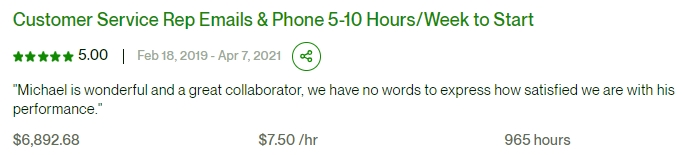
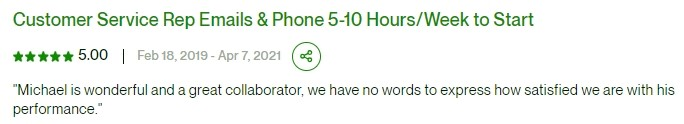
Cropped images and resized in style.css

diff --git a/index.html b/index.html
@@ -9,9 +9,7 @@
 </head>
 <body>
     <header>
-        <div class="picture-container">
-            <img src="images/profile-pic.jpg" alt="close up head shot">
-        </div>
+        <img src="images/profile-pic.jpg" alt="close up head shot" class="picture-container">
         <div class="heading">
             <h2>Virtual Assistant | Online Freelancer | Front End Web Developer</h2>
             <div class="opening">

diff --git a/css/style.css b/css/style.css
@@ -13,7 +13,7 @@ header {
     flex-wrap: wrap;
 }
 
-img {
+.picture-container {
     width: 250px;
     max-width: 100%;
     max-height:100%;
@@ -47,7 +47,7 @@ img {
 .upwork-review-1 {
     display: flex;
     flex-direction: row;
-    width: 600px;
+    width: 400px;
     margin: 20px auto;
 }
 

diff --git a/README.md b/README.md
@@ -9,3 +9,4 @@ November 22, 2023
 #5 Social media favicons added to images folder
 #6 Added additional CSS for mobile responsiveness
 #7 Added screenshots of Upwork reviews
+#8 Cropped images and resized in style.css
